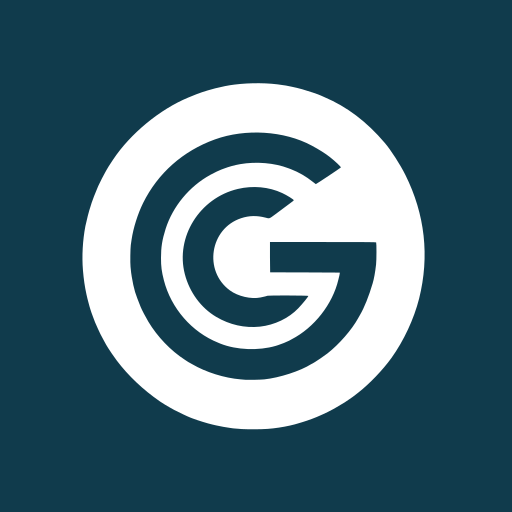
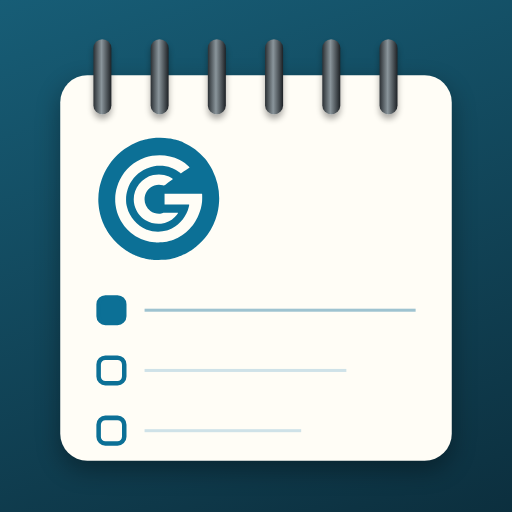
휴대폰 홈 화면 앱 아이콘을 스프링 노트 디자인으로 변경 (탭·알림 아이콘은 기존 유지)

diff --git a/index.html b/index.html
@@ -10,8 +10,8 @@
 <link rel="manifest" href="manifest.webmanifest">
 <meta name="theme-color" content="#eef4f5" media="(prefers-color-scheme:light)">
 <meta name="theme-color" content="#101e27" media="(prefers-color-scheme:dark)">
-<link rel="icon" href="icons/icon-192.png?v=cg1">
-<link rel="apple-touch-icon" href="icons/apple-touch-icon.png?v=cg1">
+<link rel="icon" href="icons/favicon-192.png?v=cg1">
+<link rel="apple-touch-icon" href="icons/apple-touch-icon.png?v=cg2">
 <link rel="stylesheet" href="tokens.css">
 <style>
 /* Hallmark · macrostructure: personal planner · theme: CG PLANER · tone: composed, personal

diff --git a/sw.js b/sw.js
@@ -16,7 +16,7 @@ self.addEventListener('push', e => {
   let d = {};
   try { d = e.data.json(); } catch (_) { d = { body: e.data ? e.data.text() : '' }; }
   e.waitUntil(self.registration.showNotification(d.title || 'CG PLANER', {
-    body: d.body || '', icon: 'icons/icon-192.png?v=cg1', badge: 'icons/icon-192.png?v=cg1', data: { url: './' },
+    body: d.body || '', icon: 'icons/favicon-192.png?v=cg1', badge: 'icons/favicon-192.png?v=cg1', data: { url: './' },
   }));
 });
 
